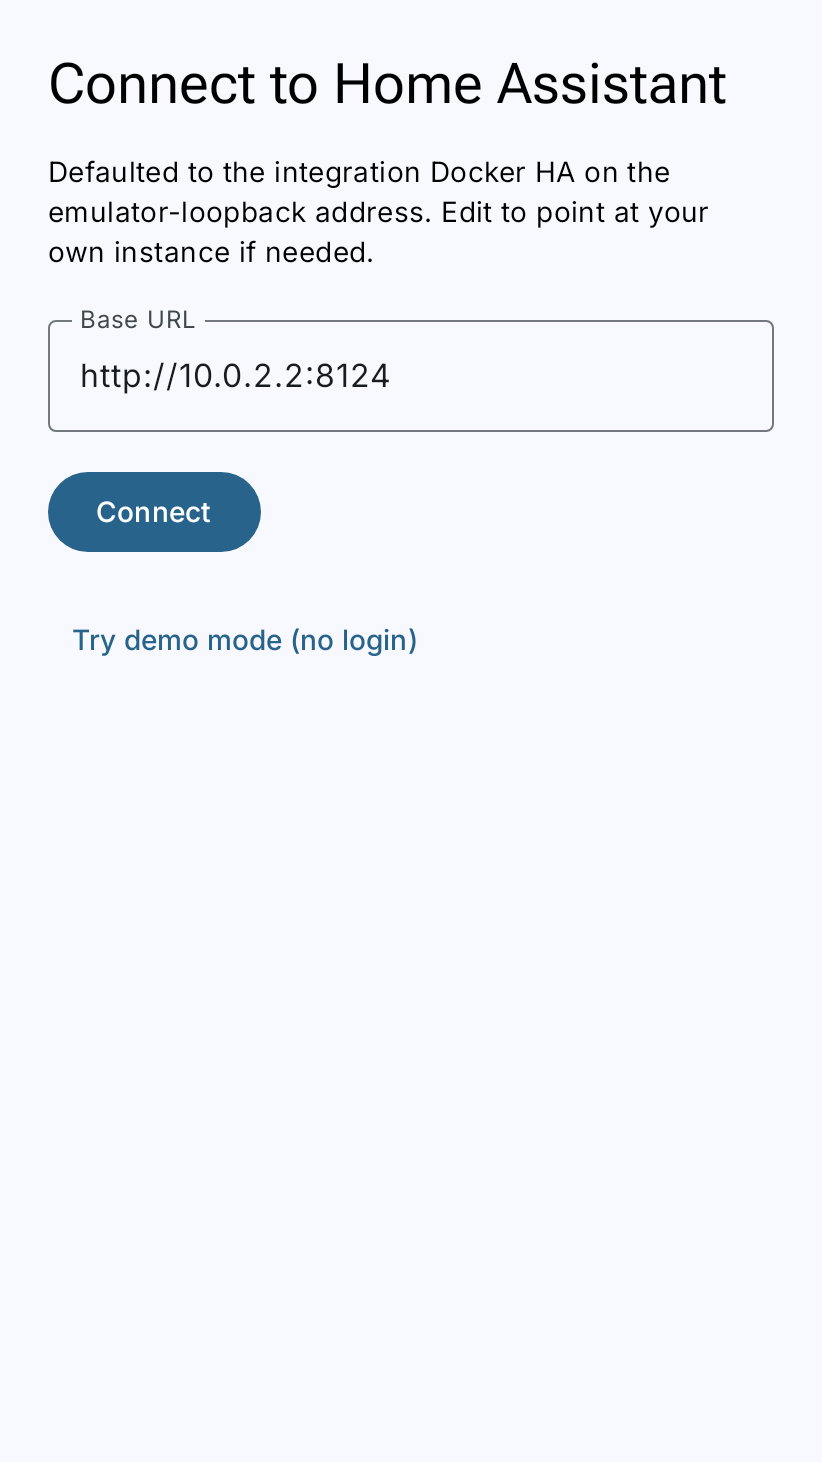
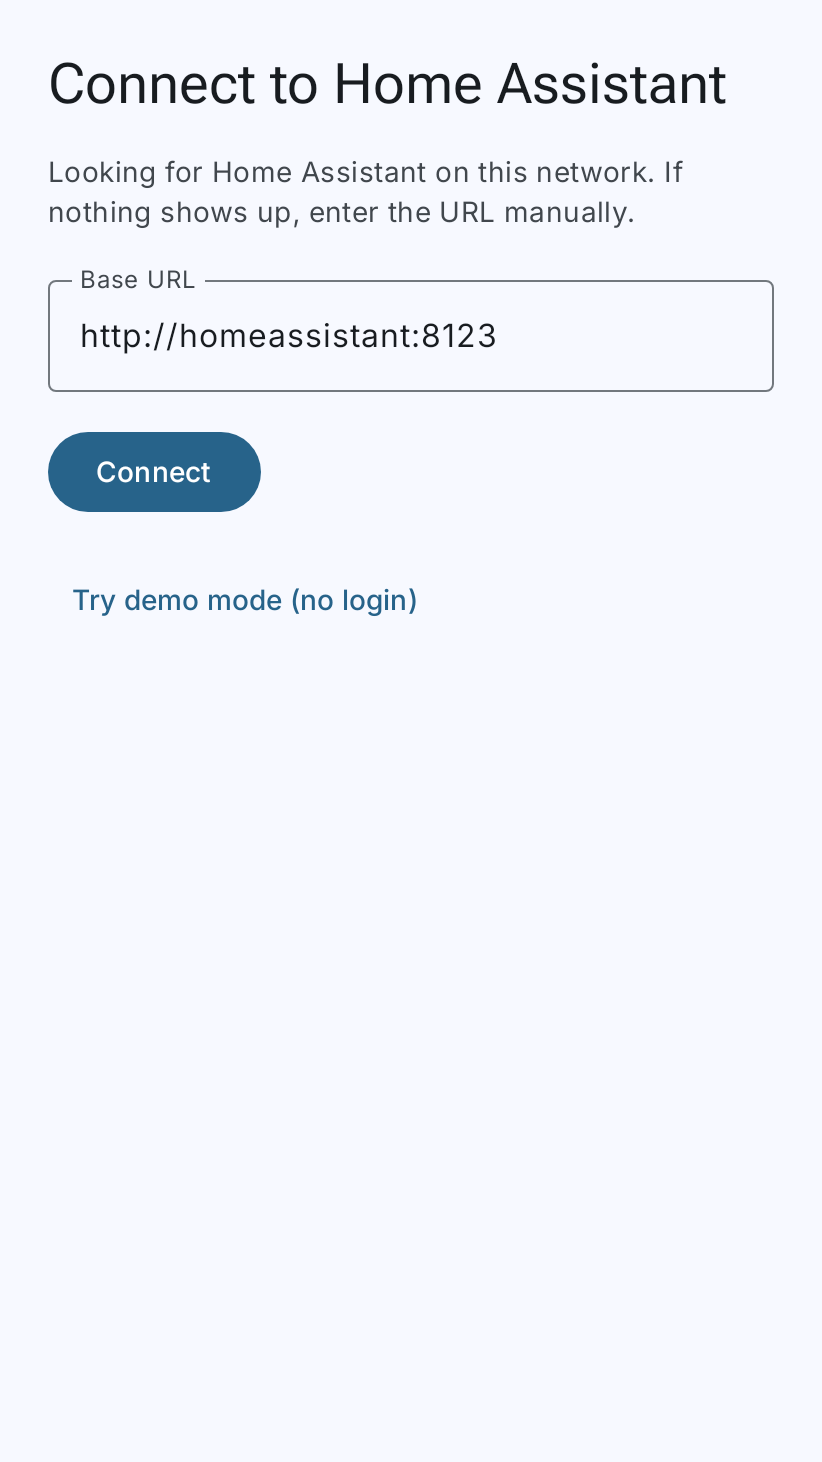
ci: automate Play Store graphics refresh and listing upload
- New "Play Store graphics" workflow (weekly + dispatch) reruns the
  render scripts and opens or updates one PR when the images change.
- Fix both render scripts for the current compose-preview CLI, which
  names renders `<function>_<name>-<hash>.png` (and `7_inch` for
  `7-inch`): staging now matches on the stem and takes the newest.
- Keep the committed image when a render never settled (the renderer's
  unsettledCaptures warning); the home dashboard previews currently
  capture a loading spinner.
- Drop byte-only churn: restore any PNG whose pixels didn't change
  beyond a 2% fuzz (renders drift by ~2/255 between runs).
- Add Play_Wear_* previews and stage them, flattened onto black, into
  the shared listing's wear-screenshots/.
- Releases run :app:publishListing when PLAY_PUBLISH_LISTING is 'true'.
- Refresh the discovery, dashboard-picker and widgets screenshots to the
  current UI.

Claude-Session: https://claude.ai/code/session_014gptwNBCCKZtNujep6zdXY

Changed region(s): [[0.0608, 0.0308, 0.882, 0.4617], [0.9124, 0.1847, 0.9428, 0.2155]]

diff --git a/wear/src/main/kotlin/ee/schimke/terrazzo/wear/ui/WearPreviews.kt b/wear/src/main/kotlin/ee/schimke/terrazzo/wear/ui/WearPreviews.kt
@@ -224,6 +224,31 @@ fun WearSettingsPreview() {
   }
 }
 
+// --- Play Store listing graphics ----------------------------------------
+//
+// The PNGs these emit are copied into
+// `app/src/main/play/listings/en-GB/graphics/wear-screenshots/` by
+// `scripts/render-play-screenshots.sh` (Wear shares the phone's Play listing). Play wants square
+// 1:1 shots of at least 384 px with no circular mask, so these render a large round watch without
+// the system-UI frame: the corners stay background, as in a real watch screenshot.
+
+private const val PLAY_WEAR_DEVICE = "spec:width=227dp,height=227dp,dpi=320,isRound=true"
+
+/** Wear slot 1 — pinned cards and sections with live values. */
+@Preview(name = "play · wear · home", device = PLAY_WEAR_DEVICE)
+@Composable
+fun Play_Wear_01_Home() = WearTopLevelPreview_Live()
+
+/** Wear slot 2 — a dashboard's cards. */
+@Preview(name = "play · wear · dashboard", device = PLAY_WEAR_DEVICE)
+@Composable
+fun Play_Wear_02_Dashboard() = WearDashboardPreview()
+
+/** Wear slot 3 — a pinned section. */
+@Preview(name = "play · wear · section", device = PLAY_WEAR_DEVICE)
+@Composable
+fun Play_Wear_03_Section() = WearSectionPreview()
+
 /** Shared fixture: Wear-Material theme + ScreenScaffold so each preview reads like a real frame. */
 @Composable
 private fun WearPreviewFrame(content: @Composable () -> Unit) {

diff --git a/docs/wear-play-publishing.md b/docs/wear-play-publishing.md
@@ -33,9 +33,13 @@ bumps them together; nothing to bump by hand.
    creates the Wear form-factor tracks, `wear:internal` among them.
 2. Under **Testing → Internal testing**, switch the form-factor selector to
    **Wear OS only** and add your tester list.
-3. Add at least one Wear screenshot to the store listing (Console, or commit
-   it to `app/src/main/play/listings/en-GB/graphics/wear-screenshots/` and run
-   `:app:publishListing`). Play won't review the Wear release without one.
+3. Get Wear screenshots onto the store listing; Play won't review the Wear
+   release without one. They're rendered from the `Play_Wear_*` previews in
+   `wear/.../ui/WearPreviews.kt` into
+   `app/src/main/play/listings/en-GB/graphics/wear-screenshots/` by
+   `scripts/render-play-screenshots.sh` (the **Play Store graphics** workflow
+   reruns it weekly). Upload them by setting `PLAY_PUBLISH_LISTING=true`, so
+   releases run `:app:publishListing`, or upload them by hand in the Console.
 4. The service account in `PLAY_SERVICE_ACCOUNT_JSON` already has access to
    this app for the phone; it needs **Release to testing tracks** (or Release
    manager), which covers the Wear tracks too.

diff --git a/app/src/main/play/listings/en-GB/graphics/README.md b/app/src/main/play/listings/en-GB/graphics/README.md
@@ -1,9 +1,17 @@
 # Play Store graphics
 
-Drop image files directly into the subdirectories below. Gradle Play
-Publisher (GPP) auto-uploads them on `publishBundle`. All files in a
-given directory are treated as the set of images for that asset, in
-filename order.
+These images are rendered from `@Preview` composables, not drawn by
+hand: `scripts/render-play-screenshots.sh` (phone, tablet and Wear
+screenshots, from the `Play_*` previews in `:app` and `:wear`) and
+`scripts/render-play-assets.sh` (icon and feature graphic, from
+`:previews`). The **Play Store graphics** workflow reruns both weekly and
+opens a PR when the output changes.
+
+Gradle Play Publisher (GPP) uploads them with `:app:publishListing`, not
+`publishBundle`. Releases run it when the `PLAY_PUBLISH_LISTING` repository
+variable is `true`; it replaces the Play Console's listing text and images
+with what's committed here. All files in a given directory are treated as
+the set of images for that asset, in filename order.
 
 | Directory | Required? | Format | Dimensions | Notes |
 |---|---|---|---|---|
